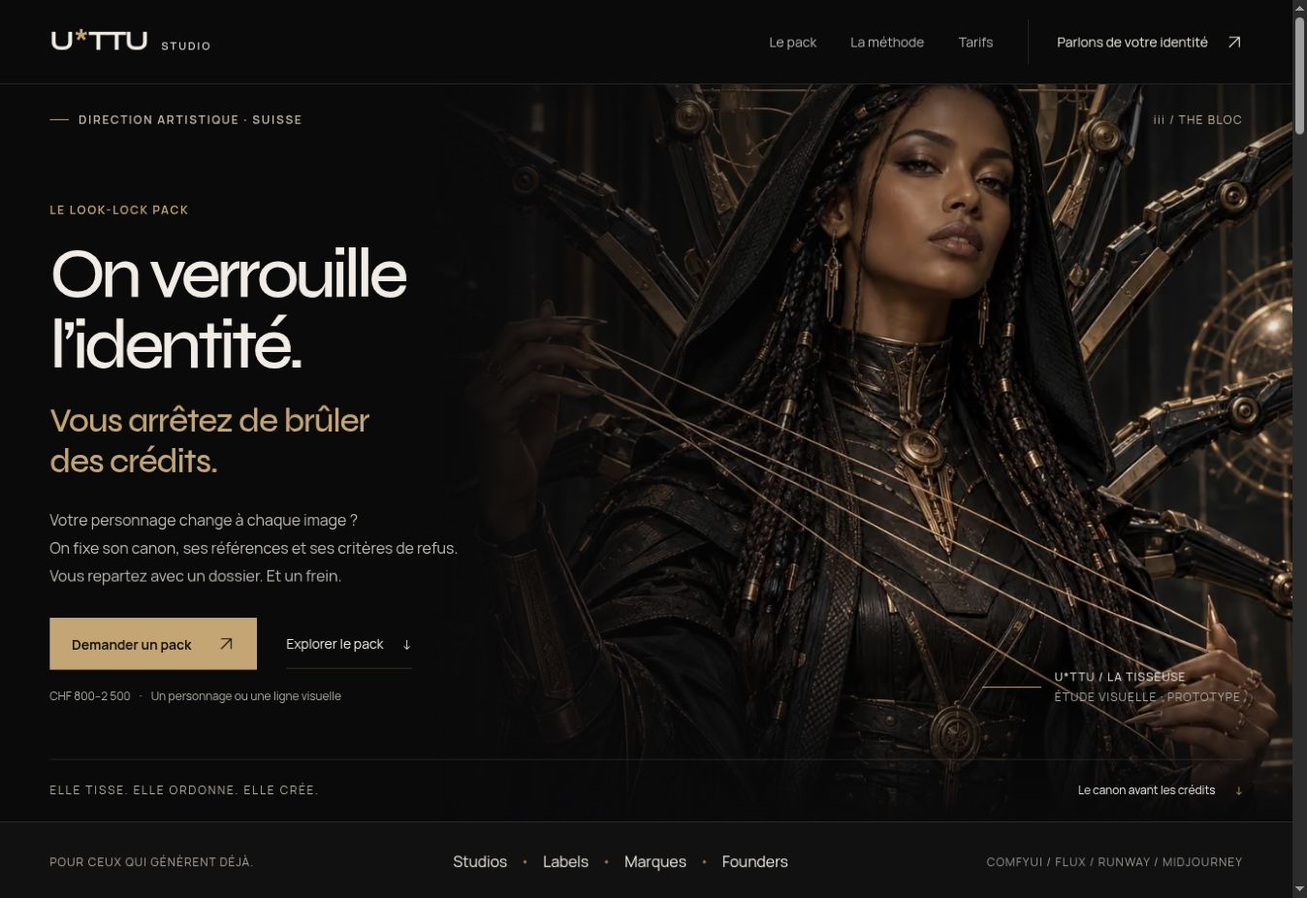
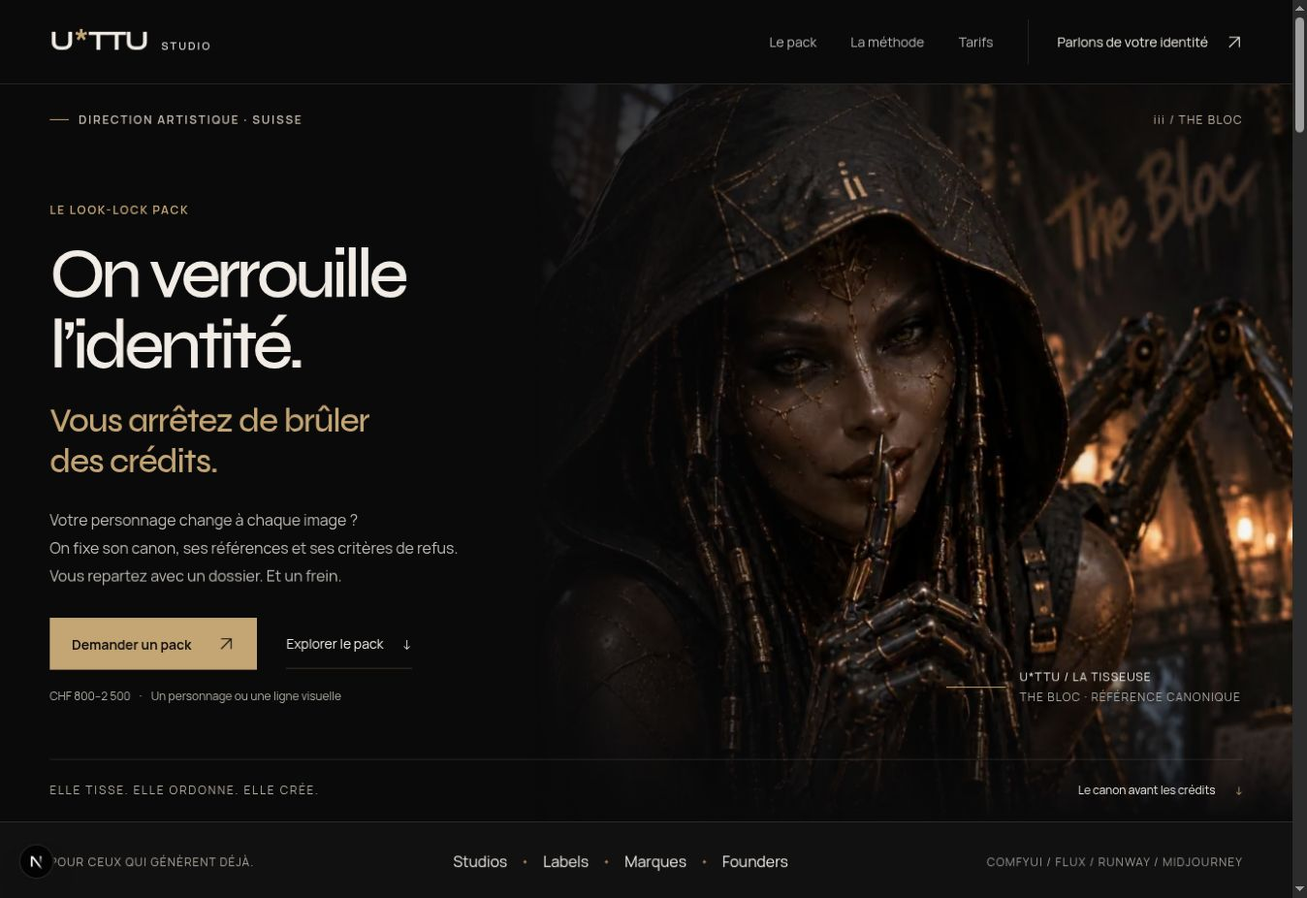
fix: restore U*TTU canonical visual identity from supplied references
Replace the rejected generated portraits and sanctuary with JD's reference images. Reframe the desktop and mobile hero, explain the canon through concrete PASS/FAIL criteria, and remove the invented comparison faces.

Document source hashes and the rejected initial visual review. Update desktop/mobile hero captures and add the corrected Sanctuary capture.

Validation: production build, TypeScript, responsive widths 320–1024, desktop render, accessible control toggle, and source/blob hash checks.

diff --git a/src/app/globals.css b/src/app/globals.css
@@ -76,9 +76,9 @@ svg { flex-shrink: 0; }
 .mobile-menu { display: none; }
 
 .hero { position: relative; min-height: 755px; isolation: isolate; overflow: hidden; }
-.hero-visual { position: absolute; inset: 0 0 0 33%; z-index: -2; }
-.hero-image { object-fit: cover; object-position: 52% 30%; }
-.hero-shade { position: absolute; inset: 0; background: linear-gradient(90deg, var(--bg) 0%, #0a0a0bea 8%, #0a0a0b6b 30%, #0a0a0b00 57%), linear-gradient(0deg, var(--bg) 0%, transparent 28%, #0a0a0b26 88%, #0a0a0b66 100%); }
+.hero-visual { position: absolute; inset: 0 0 0 41%; z-index: -2; }
+.hero-image { object-fit: cover; object-position: 50% 12%; }
+.hero-shade { position: absolute; inset: 0; background: linear-gradient(90deg, var(--bg) 0%, #0a0a0bba 12%, #0a0a0b00 43%), linear-gradient(0deg, var(--bg) 0%, transparent 30%, #0a0a0b26 88%, #0a0a0b66 100%); }
 .hero-inner { position: relative; min-height: 755px; display: flex; flex-direction: column; }
 .hero-top { display: flex; align-items: center; justify-content: space-between; padding-top: 27px; }
 .hero-top .eyebrow { display: flex; gap: 10px; align-items: center; color: #beb5a8; font-size: 11px; letter-spacing: .14em; }
@@ -110,7 +110,7 @@ h1 > span { display: block; font-size: .48em; line-height: 1.22; letter-spacing:
 h2 { font-size: clamp(38px, 3.8vw, 56px); line-height: 1.12; letter-spacing: -.045em; }
 .section-intro { max-width: 375px; font-size: 15px; line-height: 1.85; color: var(--muted); padding-bottom: 4px; }
 .comparison-grid { display: grid; grid-template-columns: 1fr 1fr; gap: 24px; }
-.compare-panel { border: 1px solid var(--line); background: var(--surface); }
+.compare-panel { border: 1px solid var(--line); background: var(--surface); min-width: 0; display: flex; flex-direction: column; }
 .compare-panel.locked { border-color: var(--line-gold); }
 .compare-label { display: flex; align-items: center; justify-content: space-between; padding: 15px 20px; gap: 12px; font-size: 12px; }
 .compare-label > span:first-child { color: #bbb8b1; }
@@ -119,9 +119,21 @@ h2 { font-size: clamp(38px, 3.8vw, 56px); line-height: 1.12; letter-spacing: -.0
 .pass { color: var(--gold); }
 .verdict.fail { background: #8b1e1e22; }
 .verdict.pass { background: #c4a57412; }
-.compare-image { position: relative; aspect-ratio: 1.9; background: #181716; overflow: hidden; }
-.compare-image img { object-fit: cover; transition: transform .8s ease; }
-.compare-panel:hover .compare-image img { transform: scale(1.025); }
+.undefined-canon { padding: 30px; min-height: 330px; flex: 1; background: linear-gradient(115deg, #26221c66, transparent), repeating-linear-gradient(90deg, transparent 0 79px, #c4a57409 79px 80px); }
+.undefined-canon .eyebrow { color: var(--muted); font-size: 10px; }
+.undefined-canon blockquote { font: 500 clamp(24px, 2.7vw, 38px)/1.25 var(--font-heading); letter-spacing: -.035em; color: #c8c0b3; margin: 22px 0 26px; }
+.undefined-canon dl { margin: 0; max-width: 380px; font-size: 12px; }
+.undefined-canon dl > div { display: flex; justify-content: space-between; gap: 20px; padding: 8px 0; border-top: 1px solid var(--line); }
+.undefined-canon dt { color: var(--muted); }
+.undefined-canon dd { margin: 0; color: var(--fail); }
+.canon-study { display: grid; grid-template-columns: 1.4fr 1fr; gap: 2px; min-height: 330px; flex: 1; background: var(--line-gold); }
+.canon-study > div { position: relative; overflow: hidden; min-width: 0; }
+.canon-study img { object-fit: cover; transition: transform .8s ease; }
+.canon-study-portrait img { object-position: 50% 24%; }
+.canon-study-detail img { object-position: 49% 50%; }
+.canon-study > div:after { content: ""; position: absolute; inset: 65% 0 0; background: linear-gradient(transparent, #0a0a0bbb); }
+.canon-study span { position: absolute; z-index: 1; left: 15px; bottom: 14px; font-size: 10px; letter-spacing: .06em; color: #e0d6c6; text-transform: uppercase; }
+.compare-panel:hover .canon-study img { transform: scale(1.025); }
 .compare-caption { padding: 24px 25px; display: flex; align-items: start; justify-content: space-between; gap: 16px; }
 .compare-caption h3 { font-size: 21px; letter-spacing: -.03em; line-height: 1.3; }
 .compare-caption p { font-size: 12px; color: var(--muted); line-height: 1.8; }
@@ -131,6 +143,7 @@ h2 { font-size: clamp(38px, 3.8vw, 56px); line-height: 1.12; letter-spacing: -.0
 .comparison-gate table { border-collapse: collapse; width: 100%; font-size: 14px; margin: 16px 0; text-align: left; }
 .comparison-gate th, .comparison-gate td { border-bottom: 1px solid var(--line); padding: 13px 10px; }
 .comparison-gate th { font-weight: 500; }
+.table-scroll { max-width: 100%; overflow-x: auto; }
 .comparison-gate thead th { color: var(--muted); font-size: 12px; }
 .comparison-gate > p:last-child { font-size: 13px; color: #b9b3a9; max-width: 780px; }
 .principle-line { display: flex; gap: 25px; align-items: center; border-block: 1px solid var(--line); padding: 27px 0; margin-top: 60px; }
@@ -200,8 +213,8 @@ h2 { font-size: clamp(38px, 3.8vw, 56px); line-height: 1.12; letter-spacing: -.0
 .manifesto h2 span { color: var(--gold); }
 .manifesto > div > p:not(.eyebrow) { color: var(--muted); font-size: 16px; line-height: 2; margin-top: 34px; }
 .manifesto strong { display: inline-block; color: var(--text); font-weight: 500; margin-top: 12px; }
-.sanctuary { height: 430px; position: relative; border-block: 1px solid var(--line); isolation: isolate; overflow: hidden; }
-.sanctuary > img { object-fit: cover; object-position: 50% 52%; z-index: -2; }
+.sanctuary { height: 510px; position: relative; border-block: 1px solid var(--line); isolation: isolate; overflow: hidden; }
+.sanctuary > img { object-fit: cover; object-position: 50% 0%; z-index: -2; }
 .sanctuary-overlay { position: absolute; inset: 0; z-index: -1; background: linear-gradient(0deg, #0a0a0bdf, #0a0a0b0d 85%), linear-gradient(90deg, #0a0a0b88, transparent); }
 .sanctuary-content { height: 100%; display: flex; justify-content: space-between; align-items: end; padding-bottom: 42px; gap: 28px; }
 .sanctuary h2 { margin-top: 16px; font-size: 49px; }
@@ -346,8 +359,8 @@ h2 { font-size: clamp(38px, 3.8vw, 56px); line-height: 1.12; letter-spacing: -.0
   .mobile-menu nav a:last-child { border-bottom: 0; color: var(--gold); }
   .hero, .hero-inner { min-height: 830px; }
   .hero-visual { inset: 0 0 0 0; height: 560px; }
-  .hero-image { object-position: 57% 22%; opacity: .9; }
-  .hero-shade { background: linear-gradient(0deg, var(--bg) 0%, #0a0a0bdb 22%, #0a0a0b5c 63%, #0a0a0b26 100%), linear-gradient(90deg, #0a0a0b77, transparent 80%); }
+  .hero-image { object-position: 50% 12%; }
+  .hero-shade { background: linear-gradient(0deg, var(--bg) 0%, #0a0a0bee 24%, #0a0a0b44 59%, #0a0a0b0d 83%, #0a0a0b66 100%); }
   .hero-top { padding-top: 20px; }
   .hero-top .eyebrow { font-size: 9px; letter-spacing: .1em; }
   .hero-index { font-size: 9px; }
@@ -381,11 +394,15 @@ h2 { font-size: clamp(38px, 3.8vw, 56px); line-height: 1.12; letter-spacing: -.0
   .compare-caption { padding: 20px 18px; flex-direction: row; gap: 15px; }
   .compare-caption h3 { font-size: 19px; }
   .compare-caption p { font-size: 11px; max-width: 130px; }
+  .undefined-canon { min-height: 300px; padding: 24px; }
+  .undefined-canon blockquote { font-size: 30px; }
+  .canon-study { min-height: 330px; }
   .compare-toolbar { align-items: start; flex-direction: column; gap: 8px; }
   .compare-toolbar > p { font-size: 10px; }
   .comparison-gate { padding: 18px; }
   .comparison-gate th, .comparison-gate td { padding: 12px 6px; font-size: 12px; }
   .comparison-gate thead th { font-size: 10px; }
+  .comparison-gate table { min-width: 540px; }
   .comparison-gate > p:last-child { font-size: 12px; }
   .principle-line { margin-top: 35px; gap: 20px; padding-block: 22px; }
   .principle-line p { font-size: 14px; }
@@ -431,8 +448,8 @@ h2 { font-size: clamp(38px, 3.8vw, 56px); line-height: 1.12; letter-spacing: -.0
   .manifesto-label .iii { font-size: 32px; }
   .manifesto h2 { font-size: clamp(44px, 11.8vw, 66px); }
   .manifesto > div > p:not(.eyebrow) { font-size: 14px; line-height: 1.95; margin-top: 27px; }
-  .sanctuary { height: 390px; }
-  .sanctuary > img { object-position: 55% 50%; }
+  .sanctuary { height: 490px; }
+  .sanctuary > img { object-position: 68% 32%; }
   .sanctuary-content { flex-direction: column; align-items: start; justify-content: end; padding-bottom: 25px; gap: 24px; }
   .sanctuary-content .eyebrow { font-size: 10px; }
   .sanctuary h2 { font-size: 39px; }

diff --git a/src/app/page.tsx b/src/app/page.tsx
@@ -21,7 +21,7 @@ export default function Home() {
     </div></header>
     <main id="contenu">
       <section className="hero" aria-labelledby="hero-title">
-        <div className="hero-visual"><Image src="/images/uttu-hero.webp" alt="U*TTU, tisseuse humanoïde au regard calme, entre architecture noire et fils d’or ancien. Interprétation visuelle du studio." fill preload sizes="(max-width: 700px) 100vw, 65vw" className="hero-image" /><div className="hero-shade" /></div>
+        <div className="hero-visual"><Image src="/images/uttu-canon-portrait.webp" alt="U*TTU sous sa capuche noire : visage minéral parcouru de fines fissures d’or, tresses cerclées de bronze et main articulée portée aux lèvres." fill preload sizes="(max-width: 600px) 100vw, (max-width: 800px) 72vw, 59vw" className="hero-image" /><div className="hero-shade" /></div>
         <div className="shell hero-inner">
           <div className="hero-top"><p className="eyebrow"><span className="tiny-line" /> Direction artistique · Suisse</p><span className="hero-index">iii / THE BLOC</span></div>
           <div className="hero-copy"><p className="eyebrow hero-product">Le Look-Lock Pack</p>
@@ -30,14 +30,14 @@ export default function Home() {
             <div className="hero-actions"><a href="#demande" className="button button-primary">Demander un pack <Arrow diagonal /></a><a href="#pack" className="quiet-link">Explorer le pack <span aria-hidden="true">↓</span></a></div>
             <p className="hero-price">CHF 800–2 500 <span>·</span> Un personnage ou une ligne visuelle</p>
           </div>
-          <div className="hero-art-caption"><span className="caption-line" /><span>U*TTU / La tisseuse<br /><span className="muted">Étude visuelle · prototype</span></span></div>
+          <div className="hero-art-caption"><span className="caption-line" /><span>U*TTU / La tisseuse<br /><span className="muted">The Bloc · Référence canonique</span></span></div>
           <div className="hero-bottom"><p>ELLE TISSE. ELLE ORDONNE. ELLE CRÉE.</p><a href="#derive" aria-label="Découvrir le problème de dérive">Le canon avant les crédits <span aria-hidden="true">↓</span></a></div>
         </div>
       </section>
       <div className="audience-strip"><div className="shell audience-inner"><span>POUR CEUX QUI GÉNÈRENT DÉJÀ.</span><p>Studios <i /> Labels <i /> Marques <i /> Founders</p><span>COMFYUI / FLUX / RUNWAY / MIDJOURNEY</span></div></div>
 
       <section id="derive" className="section shell" aria-labelledby="derive-title">
-        <div className="section-head"><div><p className="eyebrow">01 — Le coût de la dérive</p><h2 id="derive-title">Le même prompt.<br /><span className="muted">Un autre visage.</span></h2></div><p className="section-intro">Une image réussie ne fait pas une identité.<br />Sans repères stables, chaque génération renégocie vos choix. Et chaque correction coûte.</p></div>
+        <div className="section-head"><div><p className="eyebrow">01 — Le coût de la dérive</p><h2 id="derive-title">La palette tient.<br /><span className="muted">Le personnage dérive.</span></h2></div><p className="section-intro">Du noir et de l’or ne suffisent pas.<br />Sans traits, matières et silhouette définis, chaque génération réinvente votre identité.</p></div>
         <Comparison />
         <div className="principle-line"><span className="iii" aria-hidden="true">iii</span><p>La cohérence ne se souhaite pas. <strong>Elle se construit.</strong></p><span className="line-end" aria-hidden="true">+</span></div>
       </section>
@@ -66,7 +66,7 @@ export default function Home() {
 
       <section className="manifesto shell section" aria-labelledby="manifesto-title"><div className="manifesto-label"><p className="eyebrow">La position du studio</p><span className="iii" aria-hidden="true">iii</span></div><div><h2 id="manifesto-title">Du chaos,<br />extraire <span>la forme.</span></h2><p>La création n’est pas l’opposé du contrôle.<br />Le prompt est une instruction de tissage.<br />On protège les invariants. On laisse vivre l’imprévisible.<br />Rien ne devient canon par accident.<br /><strong>Elle tisse. Elle ordonne. Elle crée.</strong></p></div></section>
 
-      <section className="sanctuary" aria-labelledby="sanctuary-title"><Image src="/images/sanctuary.webp" alt="Un atelier sombre de pierre et de métal, des archives et une table traversée de fins fils dorés sous une lumière chaude." fill sizes="100vw" /><div className="sanctuary-overlay" /><div className="shell sanctuary-content"><div><p className="eyebrow">Le lieu de la trame</p><h2 id="sanctuary-title">Le Sanctuaire.</h2><p>Atelier. Laboratoire. Archive. Observatoire.</p></div><span className="sanctuary-note">ÉTUDE D’ATMOSPHÈRE<br />PROTOTYPE / U*TTU STUDIO</span></div></section>
+      <section className="sanctuary" aria-labelledby="sanctuary-title"><Image src="/images/uttu-canon-sanctuary.webp" alt="U*TTU tisse des fils d’or dans un vaste atelier industriel sombre. Ses membres arachnides articulés se déploient parmi les structures de métal et les archives." fill sizes="100vw" /><div className="sanctuary-overlay" /><div className="shell sanctuary-content"><div><p className="eyebrow">Le lieu de la trame</p><h2 id="sanctuary-title">Le Sanctuaire.</h2><p>Atelier. Laboratoire. Archive. Observatoire.</p></div><span className="sanctuary-note">ELLE TISSE. ELLE ORDONNE. ELLE CRÉE.<br />U*TTU / THE BLOC</span></div></section>
 
       <section id="demande" className="section shell contact-section" aria-labelledby="contact-title"><div className="contact-intro"><p className="eyebrow">05 — Votre prochain fil</p><h2 id="contact-title">L’identité mérite<br />de <span>rester.</span></h2><p>Un personnage. Une marque. Une direction.<br />Dites-nous ce qui doit tenir.</p><div className="contact-detail"><span className="tiny-line" /><span>Demande de pack ou direction mensuelle.<br />Le périmètre et le prix sont confirmés avant commande.</span></div><a className="contact-email" href={`mailto:${contactEmail}`}>{contactEmail} <Arrow diagonal /></a><p className="contact-placeholder">Adresse de contact provisoire du studio.</p></div><BriefForm /></section>
     </main>

diff --git a/src/components/comparison.tsx b/src/components/comparison.tsx
@@ -4,6 +4,13 @@ import Image from "next/image";
 import { useState } from "react";
 import { trackEvent } from "@/lib/analytics";
 
+const criteria = [
+  ["Visage", "Traits interchangeables", "Traits humains fins, regard calme"],
+  ["Peau", "Peau lisse, dorure uniforme", "Peau minérale, fines fissures d’or"],
+  ["Tenue", "Armure d’apparat", "Capuche noire, textile tactique usé"],
+  ["Membres", "Halo massif ou pattes organiques", "Architecture arachnide fine et articulée"],
+];
+
 export function Comparison() {
   const [showGate, setShowGate] = useState(false);
   function toggleGate() {
@@ -16,23 +23,23 @@ export function Comparison() {
   return <div className="comparison">
     <div className="comparison-grid">
       <article className="compare-panel drift">
-        <div className="compare-label"><span>01 / Sans canon</span><span className="verdict fail">× DÉRIVE</span></div>
-        <div className="compare-image"><Image src="/images/demo-drift.webp" alt="Deux portraits illustratifs : le visage et les détails du vêtement changent entre les images." fill sizes="(max-width: 700px) 100vw, 50vw" /></div>
-        <div className="compare-caption"><h3>Une belle image.<br />Puis quelqu’un d’autre.</h3><p>Traits, matière, silhouette :<br />les écarts s’accumulent.</p></div>
+        <div className="compare-label"><span>01 / L’intention seule</span><span className="verdict fail">× INCOMPLET</span></div>
+        <div className="undefined-canon"><span className="eyebrow">Instruction ouverte</span><blockquote>« Une déesse.<br />Du noir. De l’or. »</blockquote><dl><div><dt>Le visage</dt><dd>Non défini</dd></div><div><dt>La matière</dt><dd>Non définie</dd></div><div><dt>La silhouette</dt><dd>Non définie</dd></div></dl></div>
+        <div className="compare-caption"><h3>Tout reste<br />à réinventer.</h3><p>Chaque zone floue<br />laisse entrer la dérive.</p></div>
       </article>
       <article className="compare-panel locked">
-        <div className="compare-label"><span>02 / Avec Look-Lock</span><span className="verdict pass">✓ COHÉRENCE</span></div>
-        <div className="compare-image"><Image src="/images/demo-locked.webp" alt="Deux portraits illustratifs conservent le même visage, la même tenue et la même lumière, avec un léger changement d’angle." fill sizes="(max-width: 700px) 100vw, 50vw" /></div>
-        <div className="compare-caption"><h3>L’angle change.<br />L’identité reste.</h3><p>Les invariants sont définis.<br />Les écarts sont refusés.</p></div>
+        <div className="compare-label"><span>02 / Le canon U*TTU</span><span className="verdict pass">✓ RÉFÉRENCE</span></div>
+        <div className="canon-study"><div className="canon-study-portrait"><Image src="/images/uttu-canon-portrait.webp" alt="Référence U*TTU : capuche noire usée, visage minéral, fines tresses et articulations de bronze." fill sizes="(max-width: 600px) 60vw, 30vw" /><span>01 / Présence</span></div><div className="canon-study-detail"><Image src="/images/uttu-canon-detail.webp" alt="Détail de la peau minérale d’U*TTU : fissures d’or fines autour des lèvres et tresses aux anneaux de bronze." fill sizes="(max-width: 600px) 40vw, 20vw" /><span>02 / Matière</span></div></div>
+        <div className="compare-caption"><h3>Chaque trait<br />a sa règle.</h3><p>Peau. Fissures. Tresses.<br />Les repères deviennent un frein.</p></div>
       </article>
     </div>
-    <div className="compare-toolbar"><p>Démonstration visuelle générée · prototype, pas un résultat client.</p><button type="button" className="text-button" onClick={toggleGate} aria-expanded={showGate} aria-controls="comparison-gate">{showGate ? "Fermer le contrôle" : "Révéler le contrôle"}<span aria-hidden="true">{showGate ? "−" : "+"}</span></button></div>
+    <div className="compare-toolbar"><p>Références U*TTU · exemple de critères appliqués au personnage du studio.</p><button type="button" className="text-button" onClick={toggleGate} aria-expanded={showGate} aria-controls="comparison-gate">{showGate ? "Fermer le contrôle" : "Révéler le contrôle"}<span aria-hidden="true">{showGate ? "−" : "+"}</span></button></div>
     <div id="comparison-gate" className="comparison-gate" hidden={!showGate}>
       <p className="eyebrow">Exemple de grille · contrôle humain</p>
-      <div className="table-scroll"><table><caption className="sr-only">Exemple de comparaison des critères d’identité</caption><thead><tr><th scope="col">Invariant à vérifier</th><th scope="col">Sans canon</th><th scope="col">Look-Lock</th></tr></thead><tbody>
-        {["Traits et proportions du visage", "Coupe de la tenue et détails", "Palette et direction de lumière"].map((item, i) => <tr key={item}><th scope="row">{item}</th><td className={i === 2 ? "pass" : "fail"}>{i === 2 ? "PASS" : "FAIL"}</td><td className="pass">PASS</td></tr>)}
+      <div className="table-scroll" role="region" aria-label="Critères de contrôle U*TTU" tabIndex={0}><table><caption className="sr-only">Critères de refus et références visuelles du canon U*TTU</caption><thead><tr><th scope="col">Invariant</th><th scope="col">FAIL / À refuser</th><th scope="col">PASS / À préserver</th></tr></thead><tbody>
+        {criteria.map(([name, fail, pass]) => <tr key={name}><th scope="row">{name}</th><td className="fail">{fail}</td><td className="pass">{pass}</td></tr>)}
       </tbody></table></div>
-      <p>Un invariant échoue ? L’image est refusée. On corrige avant la série suivante. Cette grille illustre la méthode ; elle ne mesure pas automatiquement les images.</p>
+      <p>Un invariant échoue ? L’image est refusée. On corrige avant la série suivante. La comparaison aux références reste humaine.</p>
     </div>
   </div>;
 }

diff --git a/docs/QA.md b/docs/QA.md
@@ -1,8 +1,28 @@
-# Gate de livraison — V1
+# Contrôles de livraison — V1 et correction de DA
 
 Vérification du 24 septembre 2026. Sources canoniques lues avant le code. Les captures sont des rendus du site dans Chrome, pas des maquettes.
 
-## Contrôles exécutés
+## Correction de la revue visuelle
+
+La première livraison a été rejetée par JD sur l’identité visuelle. Le chargement des images et le respect de la palette avaient été vérifiés, mais cela ne validait pas le personnage. Ce défaut est consigné dans DECISIONS.md.
+
+La correction remplace les quatre assets illustratifs rejetés par trois images issues directement des références fournies. Aucun personnage n’est régénéré. Les empreintes sources et les invariants figurent dans VISUAL-CANON.md.
+
+Contrôles rejoués après correction :
+
+| Contrôle | Résultat | Périmètre |
+| --- | --- | --- |
+| Build et TypeScript | PASS | `npm run build` et `npm run typecheck`. |
+| Provenance du personnage | PASS | Portrait `1000034598.png`, macro `1000033588.png`, Sanctuaire `1000033487.png` ; conversion WebP sans retouche sémantique. |
+| Hero | PASS — rendu inspecté | Le visage fourni est visible et le texte reste lisible sur desktop et mobile. Captures actualisées. |
+| Sanctuaire | PASS — rendu inspecté | Cadrages desktop et mobile vérifiés ; visage entier conservé en alignant le haut de l’image sur desktop. |
+| Responsive | PASS | Cadres 320, 390, 600, 768 et 1024 px ; largeurs utiles 305, 375, 585, 753 et 1009 px après barre de défilement. Aucun débordement de page. Desktop 1348 px utiles. |
+| Grille de contrôle | PASS | Ouverture et fermeture, `aria-expanded`, critères réels d’U*TTU. Sur mobile, le tableau défile dans une région nommée et accessible au clavier, sans élargir la page. |
+| Anciens visuels | PASS | Aucun appel aux anciennes URL dans le site ; fichiers retirés de `public/images`. |
+
+La conformité technique et la provenance sont vérifiées ici. Ces contrôles ne prétendent pas remplacer l’appréciation artistique de JD.
+
+## Contrôles fonctionnels de la V1
 
 | Contrôle | Résultat | Preuve / périmètre |
 | --- | --- | --- |
@@ -15,8 +35,8 @@ Vérification du 24 septembre 2026. Sources canoniques lues avant le code. Les c
 | Formulaire rempli | PASS | Préparation du mailto vers HelveticVault@gmail.com. Accents, `&`, retours à la ligne et URL de référence encodés correctement. Aucun e-mail envoyé pendant la vérification. |
 | Copie | PASS | Bouton testé, statut « Brief copié. Collez-le dans votre e-mail. ». Un texte sélectionnable reste disponible si l’API presse-papiers échoue. |
 | Navigation clavier | PASS | Passage par Tab du nom au studio ; focus visible avec contour plein. Lien d’évitement, labels et contrôles natifs présents. |
-| Démonstration PASS / FAIL | PASS | Ouverture / fermeture testées ; `aria-expanded` et visibilité de la grille conformes. La grille est explicitement illustrative, sans évaluation automatique. |
-| Images | PASS | Assets locaux chargés dans le navigateur ; portrait, comparatif et Sanctuaire inspectés. Aucun stock générique. |
+| Démonstration PASS / FAIL | PASS | Ouverture / fermeture testées ; `aria-expanded` et visibilité de la grille conformes. La comparaison explique les critères, sans évaluation automatique. |
+| Images | Corrigé | Le test initial de chargement ne suffisait pas à valider la DA. Voir les vérifications de la correction ci-dessus. |
 | Mouvement réduit | PASS — code inspecté | Animations / transitions / scroll fluide désactivés par `prefers-reduced-motion: reduce`. La transition native n’est pas appelée si cette préférence est active. |
 | Confidentialité | PASS — code inspecté | Analytics inertes. Pas d’envoi serveur, cookies ou stockage de brief. Repli sans JS par mailto. |
 | Promesses commerciales | PASS | Un pack + une direction mensuelle. Aucun résultat chiffré inventé, génération illimitée, produit crypto ou abonnement logiciel annoncé. |

diff --git a/docs/VISUAL-CANON.md b/docs/VISUAL-CANON.md
@@ -1,0 +1,39 @@
+# U*TTU — Références du site
+
+## FAIT — Sources visuelles
+
+Références fournies directement par JD lors de la correction de DA du 24 septembre 2026. Elles complètent les sources écrites listées dans [DECISIONS.md](DECISIONS.md).
+
+| Fichier fourni | Usage | Asset du site |
+| --- | --- | --- |
+| `1000034598.png` | Hero et référence de présence | `public/images/uttu-canon-portrait.webp` |
+| `1000033588.png` | Détail de peau et de tresses | `public/images/uttu-canon-detail.webp` |
+| `1000033487.png` | U*TTU au Sanctuaire, tissage | `public/images/uttu-canon-sanctuary.webp` |
+
+Conversion des pixels sources en WebP, qualité 88, sans recadrage dans le fichier, recoloration ou génération. Le cadrage responsive est défini en CSS. Les noms distincts évitent de réutiliser les URL des anciens visuels en cache. Les originaux restent les références de provenance ; leur extension `.png` fournie contient en réalité un encodage JPEG.
+
+Empreintes SHA-256 des fichiers fournis :
+
+```text
+1000034598.png  574c8a45b35caf876ad25b881e357137e613e5b87b11660e644b891882a0c8df
+1000033588.png  0b1832235e9130ed2f9fd5a013cdf388ff656c116e4fa57f2f56baa5e86767fe
+1000033487.png  cb4811fc378f8497b2560a6448441264b1f28bfc15ec7a3d30289d63119425c0
+```
+
+Les autres références fournies (portrait sur fond clair, planche de personnage, scène « SOFT ERROR ») ont servi à lire le canon. Elles ne sont pas présentées comme de nouveaux livrables du service.
+
+## FAIT — Invariants visibles
+
+- Visage humain féminin fin et anguleux, regard sombre et contrôlé.
+- Peau brun-gris / bronze sombre, texture minérale, très fines fissures et lignes métalliques dorées.
+- Longues tresses noires fines, bagues et segments bronze.
+- Capuche noire usée, vêtements utilitaires et tactiques, textiles patinés.
+- Membres arachnides élancés et articulés ; présence élégante, sans monstruosité.
+- Noir, bronze et or ancien. Matières et lumière tangibles dans un atelier industriel.
+- Affiliation The Bloc et symbole `iii`.
+
+Un noir et or correct ne suffit pas à reconnaître le personnage. Les anciennes interprétations avaient une peau trop humaine et lisse, une tenue d’apparat et des membres massifs. Elles ont été retirées après le retour de JD. Aucun asset de remplacement ne redessine le personnage.
+
+## PROPOSITION — Futures images
+
+Pour une nouvelle scène, partir des références visuelles, conserver le visage et les invariants, puis comparer le résultat à celles-ci avant intégration. Un prompt textuel seul ne vaut pas verrouillage d’identité.

diff --git a/README.md b/README.md
@@ -13,7 +13,7 @@ Site vitrine FR-CH d’un service de direction artistique. Une commande couvre u
 - Formulaire nom / studio / budget / brief, préparation d’un `mailto:`, copie du brief et lien de contact direct.
 - Contact provisoire : **HelveticVault@gmail.com**. Aucune demande n’est envoyée automatiquement. Aucune inscription à une waitlist n’est simulée.
 - Contrôle PASS / FAIL révélable, sans analyse automatique d’images.
-- Images originales générées pour le site, optimisées en WebP puis servies par `next/image` en WebP/AVIF selon le navigateur. Hero préchargé, autres images différées.
+- Portrait, détail de peau et Sanctuaire issus des références canoniques fournies par JD. Conversion WebP sans modification du personnage, puis optimisation responsive par `next/image`. Hero préchargé, autres images différées. Provenance dans [docs/VISUAL-CANON.md](docs/VISUAL-CANON.md).
 - Carte OG 1200 × 630, titre et description, favicon `iii`, `robots.txt`, sitemap et URL canonique quand l’origine est configurée.
 - Animations CSS et transition native sur le contrôle ; `prefers-reduced-motion` respecté. Pas de bibliothèque 3D.
 - Analytics : stub inerte dans `src/lib/analytics.ts`. Aucun SDK, cookie, stockage local ou appel de tracking.
@@ -71,9 +71,11 @@ Lues avant l’implémentation, dans cet ordre :
 
 Les sources et le Vault n’ont pas été modifiés. Les choix et limites sont consignés dans [docs/DECISIONS.md](docs/DECISIONS.md).
 
+**Correction de DA :** les visuels générés de la première livraison ont été rejetés par JD. Ils ont été retirés. Les images affichées d’U*TTU proviennent maintenant directement de ses références ; la comparaison expose les invariants et les critères de refus du personnage.
+
 ## Description visuelle de la livraison
 
-Hero — présence U*TTU, promesse, CTA et prix dès le premier écran desktop :
+Hero — portrait canonique fourni par JD, promesse, CTA et prix :
 
 ![Hero ordinateur](docs/screenshots/hero-desktop.jpg)
 
@@ -91,7 +93,7 @@ Voir [docs/QA.md](docs/QA.md) : build, responsive, formulaire, clavier, contrast
 
 ## PROPOSITION — Après la V1
 
-- Remplacer les études visuelles par un cas client autorisé, avec écarts annotés et validation documentée.
+- Ajouter un cas client autorisé, avec écarts annotés et validation documentée, en complément des références U*TTU.
 - Brancher un envoi serveur ou une vraie waitlist avec consentement explicite si le flux e-mail devient insuffisant.
 - Ajouter EN ou une page `/gate` uniquement lorsque la demande le justifie.
 

diff --git a/docs/DECISIONS.md b/docs/DECISIONS.md
@@ -20,11 +20,15 @@ Le formulaire compose un e-mail ; il ne contacte aucun serveur d’envoi et ne s
 
 Le développement reste en Next.js authentique pour Vercel, conformément au choix de stack. Aucun hébergement Sites ou Higgsfield n’a été créé.
 
-## PROTOTYPE — Visuels
+## FAIT — Correction de l’identité visuelle
 
-Quatre images créées avec l’outil imagegen intégré : portrait, planche comparative, Sanctuaire et carte OG. Les deux paires de portraits de la comparaison sont des cadrages de la planche, sans retouche sémantique. Il s’agit d’une illustration de la méthode, pas d’un historique de générations client ni d’une preuve statistique d’efficacité.
+JD a rejeté l’identité représentée dans la première livraison. La palette correspondait au brief, mais le visage, la peau, la tenue et les membres s’écartaient de ses références. Le statut de prototype ne suffisait pas à corriger cette dérive. Le précédent contrôle visuel ne constituait pas une validation canonique.
 
-Ces interprétations ne modifient pas le canon du Vault. La présence U*TTU et le Sanctuaire sont marqués comme études / prototypes dans la page. Les prompts de création sont dans [asset-prompts.txt](asset-prompts.txt).
+Le hero utilise désormais le portrait fourni `1000034598.png`. La comparaison emploie ce portrait et le détail `1000033588.png`. Le Sanctuaire utilise `1000033487.png`. Seuls l’encodage WebP et le cadrage CSS varient : aucune nouvelle génération, retouche du visage ou modification de la couleur des références. Les fichiers et invariants sont documentés dans [VISUAL-CANON.md](VISUAL-CANON.md).
+
+La comparaison oppose une instruction insuffisamment définie à des références explicites, puis révèle des critères PASS / FAIL. Elle ne présente pas un faux historique de résultats client ni deux personnages inventés. Les anciennes images ne sont plus livrées dans `public/`.
+
+La carte OG typographique ne représente pas le personnage ; elle est conservée. Son prompt reste dans [asset-prompts.txt](asset-prompts.txt).
 
 ## PROPOSITION — Suite
 
